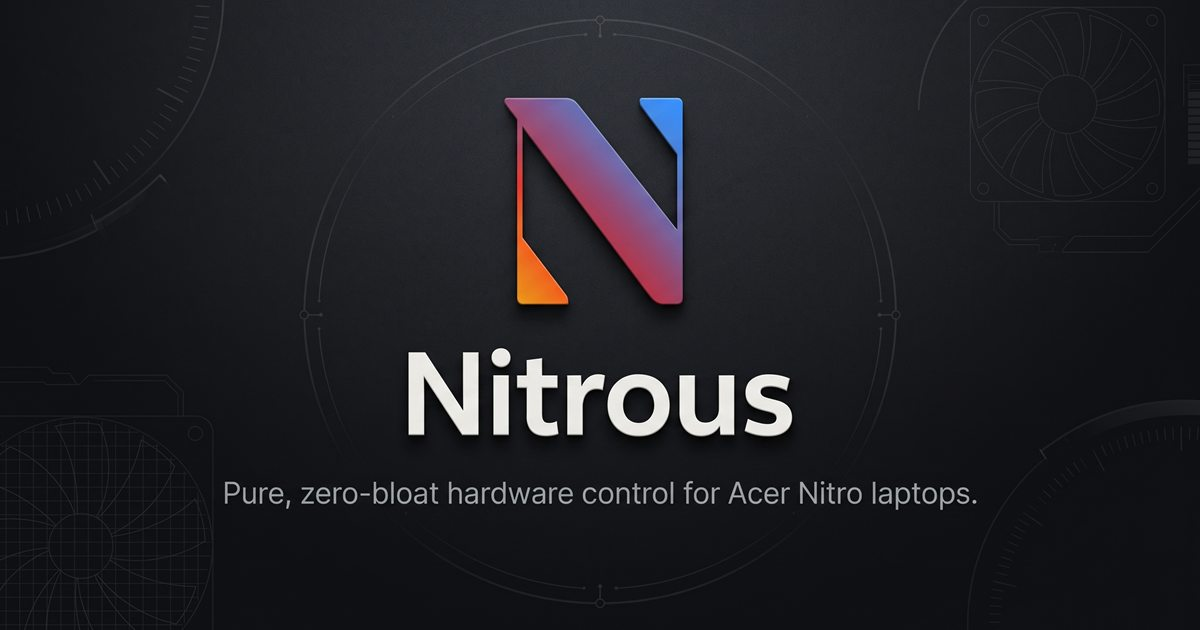
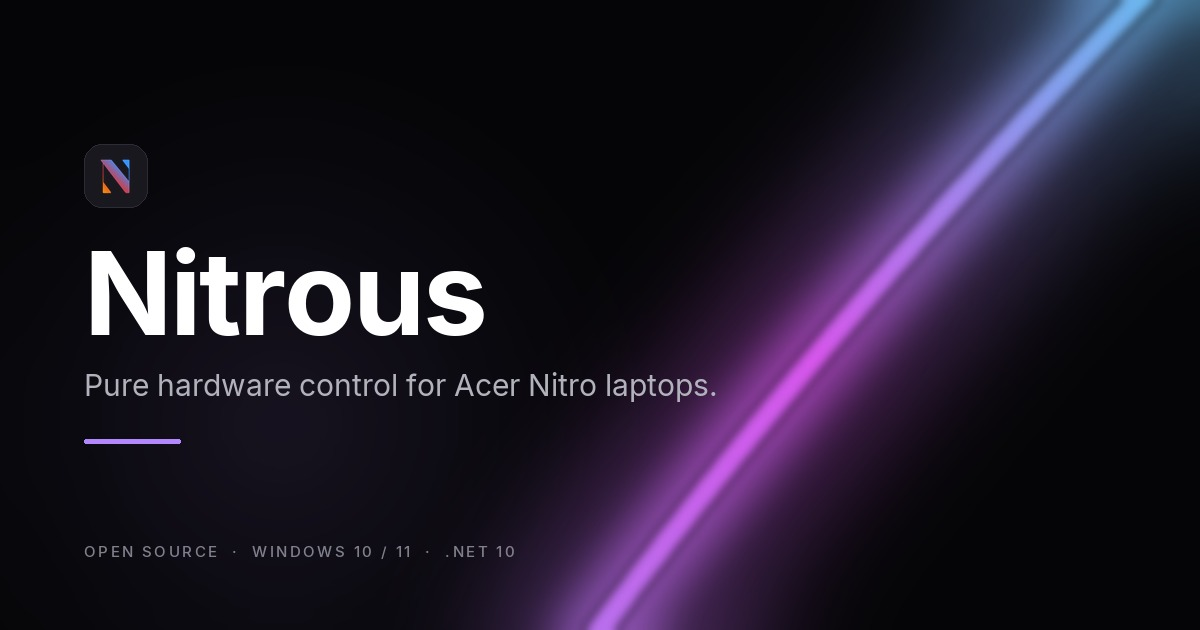
docs(social): new GitHub preview and link-card image
GitHub gets the dashboard-led card (1280x640): logo tile, wordmark, tagline, three chips and a live capture of the app on the right. The site's og/twitter image is the light-ribbon card rendered at 1200x630, which survives being cropped into a link preview where the app panel would not.

Both are rendered from the real logo and the current screenshot by tools/social.py, so they can be regenerated after a screenshot refresh. The old pink JPEG is removed; the og:image:alt now describes what the card actually shows.

diff --git a/docs/index.html b/docs/index.html
@@ -16,7 +16,7 @@
   <meta property="og:description" content="One portable executable. Firmware power modes, fan curves, GPU clocks, refresh rate and RGB — backed up before every write.">
   <meta property="og:url" content="https://jeremyaliparo.github.io/nitrous/">
   <meta property="og:image" content="https://jeremyaliparo.github.io/nitrous/assets/og.jpg">
-  <meta property="og:image:alt" content="The Nitrous logo above the words Pure, zero-bloat hardware control for Acer Nitro laptops.">
+  <meta property="og:image:alt" content="The Nitrous logo and wordmark with the tagline 'Pure hardware control for Acer Nitro laptops', beside a violet and cyan light ribbon on black.">
   <meta property="og:image:width" content="1200">
   <meta property="og:image:height" content="630">
   <meta name="twitter:card" content="summary_large_image">
